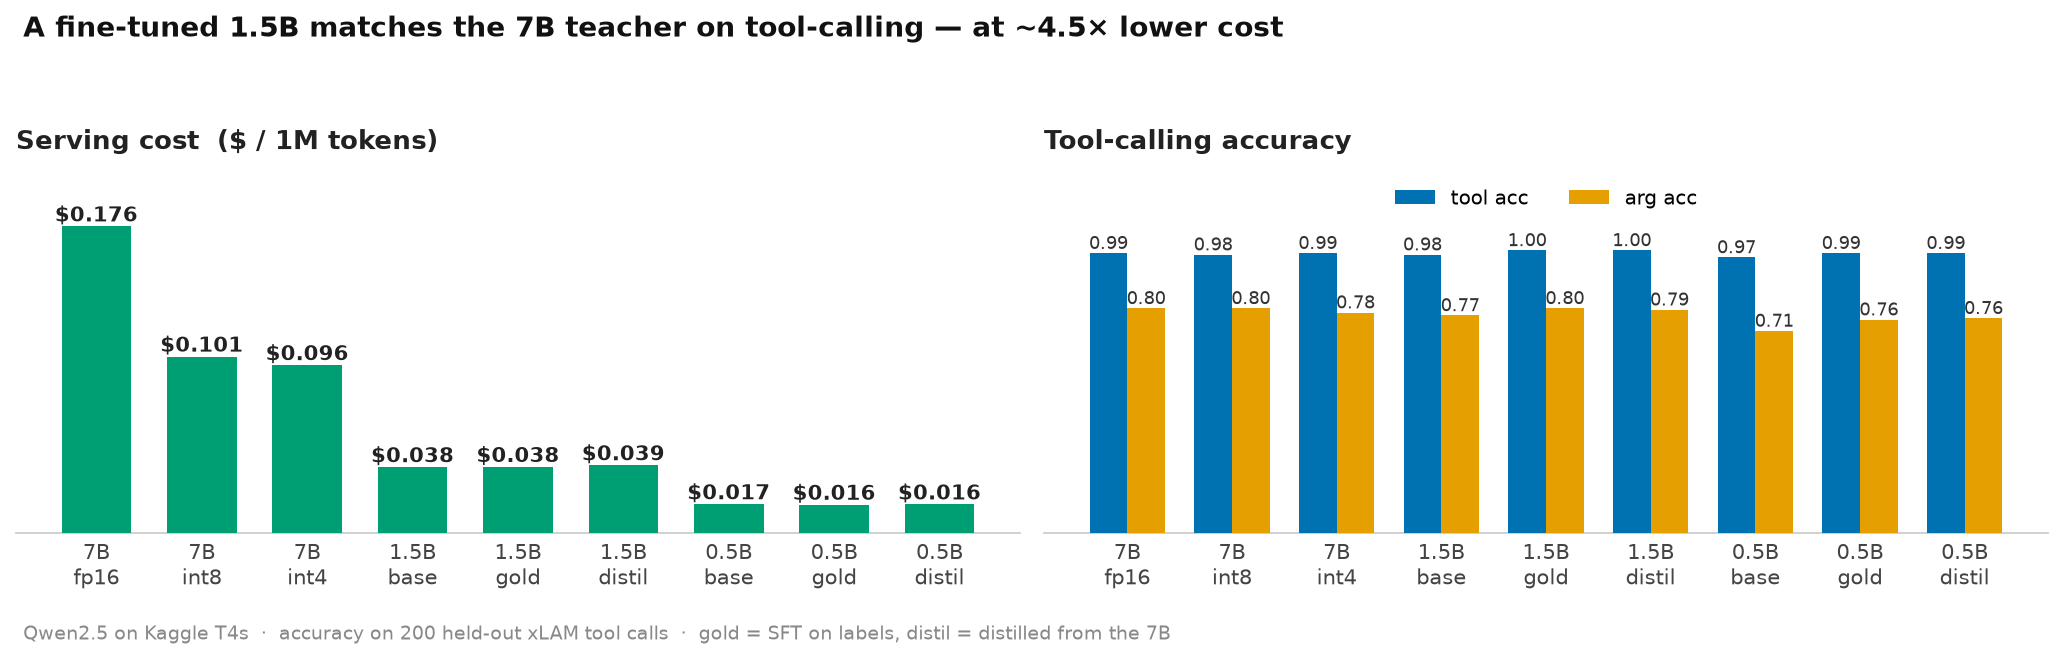
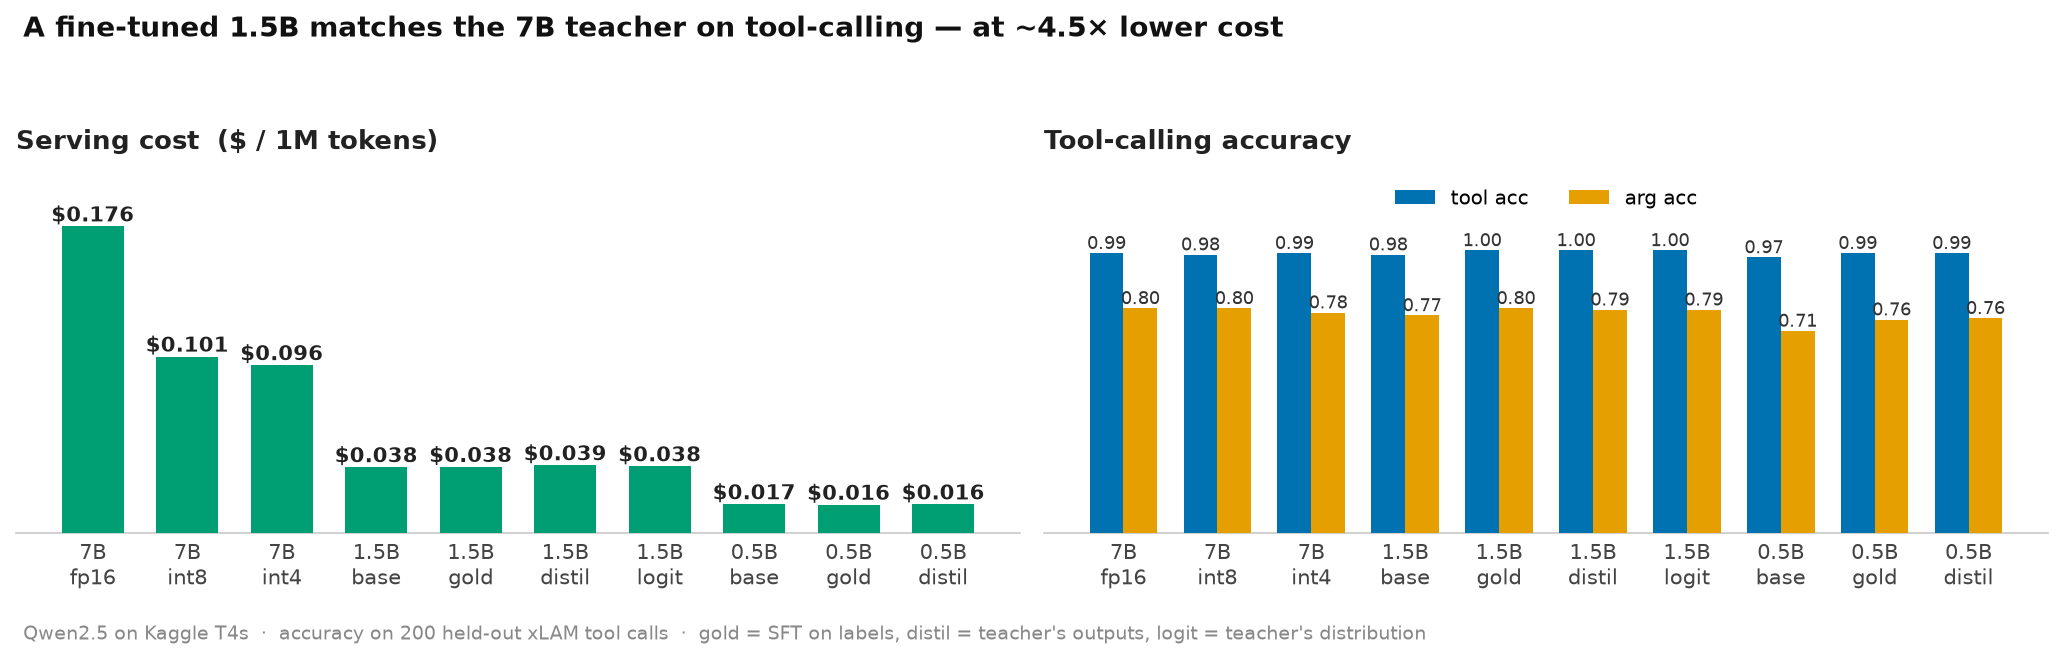
Add logit-KD bar to cost-vs-quality chart

diff --git a/scripts/plot_results.py b/scripts/plot_results.py
@@ -18,14 +18,16 @@ import pandas as pd              # noqa: E402
 CSV = "results/benchmarks.csv"
 OUT = "results/charts/phase1_cost_vs_quality.png"
 
-# fixed order: 7B teacher variants, then each student as a trio (base -> fine-tuned)
+# fixed order: 7B teacher variants, then each student (base -> the fine-tuned recipes)
 ORDER = ["teacher_fp16", "teacher_int8", "teacher_int4_awq",
          "student_1p5b_base", "student_1p5b_gold", "student_1p5b_distill",
+         "student_1p5b_logitkd",
          "student_0p5b_base", "student_0p5b_gold", "student_0p5b_distill"]
 LABELS = {
     "teacher_fp16": "7B\nfp16", "teacher_int8": "7B\nint8",
     "teacher_int4_awq": "7B\nint4", "student_1p5b_base": "1.5B\nbase",
     "student_1p5b_gold": "1.5B\ngold", "student_1p5b_distill": "1.5B\ndistil",
+    "student_1p5b_logitkd": "1.5B\nlogit",
     "student_0p5b_base": "0.5B\nbase", "student_0p5b_gold": "0.5B\ngold",
     "student_0p5b_distill": "0.5B\ndistil",
 }
@@ -76,8 +78,8 @@ def main() -> None:
         "A fine-tuned 1.5B matches the 7B teacher on tool-calling — at ~4.5× lower cost",
         fontsize=12.5, fontweight="bold", x=0.015, ha="left", color="#111")
     fig.text(0.015, 0.005,
-             "Qwen2.5 on Kaggle T4s  ·  accuracy on 200 held-out xLAM tool calls  ·  "
-             "gold = SFT on labels, distil = distilled from the 7B",
+             "Qwen2.5 on Kaggle T4s  ·  accuracy on 200 held-out xLAM tool calls  ·  gold = SFT on "
+             "labels, distil = teacher's outputs, logit = teacher's distribution",
              fontsize=8.5, color="#888", ha="left")
     fig.tight_layout(rect=[0, 0.04, 1, 0.92])
     Path(OUT).parent.mkdir(parents=True, exist_ok=True)
